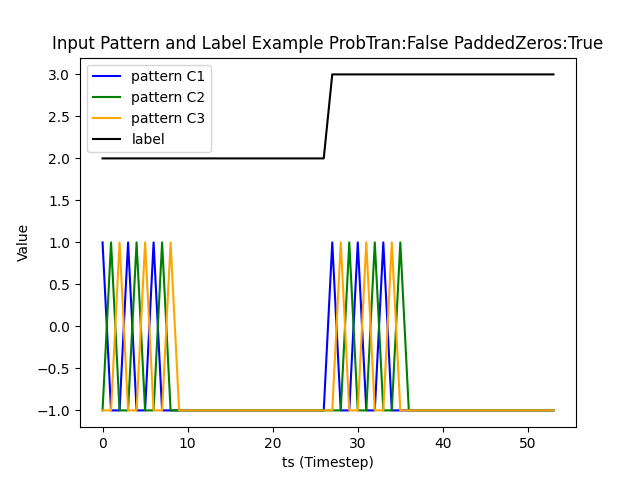
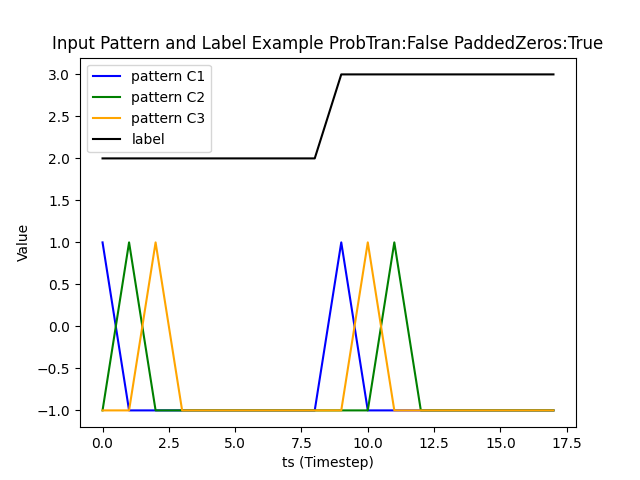
3 layer feedback demo

diff --git a/three-layers-feedback.py b/three-layers-feedback.py
@@ -44,7 +44,7 @@ def preset_timing_plot():
     ax.set_xlabel('Time (s)')
     ax.set_title('Preset Timing Parameters')
 
-    plt.show()
+    plt.savefig('fig/preset_timing_parameters/preset_timing_parmeters_pt_eq_'+str(pt)[0:4]+'.png')
 
 def phase_automata(driving_symbol='0', number_of_symbols=3, id_of_starting_symbol=0, timesteps=9,
                    probability_of_transition=False):
@@ -84,14 +84,18 @@ def phase_automata(driving_symbol='0', number_of_symbols=3, id_of_starting_symbo
 
 reseed = 91332 #91323 #91280 #91274 # 91264 # 91254  # 91273
 good = False
-number_of_samples = 64
-ts = 9  # number of timesteps to hold a driving symbol constant for.
+number_of_samples = 2
+ts = 3  # number of timesteps to hold a driving symbol constant for.
 pb = False
-pt = 3e-2 # seconds to present each step of input
+pt = 3e-3 # seconds to present each step of input
 label_length = ts * 3 # In Timesteps, multiply by dt to get actual length of time
-threeChannelsOF1, end_channel = phase_automata(driving_symbol="1", probability_of_transition=pb, timesteps=ts)
 padded_zeros = np.zeros((3, ts * 2), dtype=float)
 padded_zeros = padded_zeros - 1.0
+
+
+i = 1
+
+threeChannelsOF1, end_channel = phase_automata(driving_symbol="1", probability_of_transition=pb, timesteps=ts)
 threeChannels1 = np.concatenate((threeChannelsOF1, padded_zeros), axis=1)
 threeChannelsOF0, end_channel0 = phase_automata(driving_symbol="0", probability_of_transition=pb, timesteps=ts)
 threeChannels0 = np.concatenate((threeChannelsOF0, padded_zeros), axis=1)
@@ -100,6 +104,7 @@ labels1 = np.ones((label_length, 1), dtype=float)
 bothLabels = np.concatenate((labels0, labels1), axis=0)
 bothPatterns = np.concatenate((threeChannels0, threeChannels1), axis=1)
 
+bitstring = "0111100001010000000111111101010101010011001100011100101010000111100000000000000000000000000000000000000000000000000000000000000000"
 plt.figure()
 plt.title("Input Pattern and Label Example ProbTran:"+str(pb)+" PaddedZeros:True")
 t = np.arange(ts*3*2)
@@ -111,50 +116,35 @@ plt.plot(t,bothPatterns[2],color="orange",label="pattern C3")
 plt.plot(t,bothLabels+2.0,color="black",label="label")
 plt.legend()
 plt.savefig("fig/input_pattern_example_probTran_"+str(pb)+"_padded_zeros_true.png")
-i = 1
-bitstring = "0101100001010000000111111101010101010011001100011100101010000111100000000000000000000000000000000000000000000000000000000000000000"
+
 w = 0
 while i < number_of_samples:
-    threeChannelsOF1, end_channel = phase_automata(driving_symbol=bitstring[w], probability_of_transition=pb, 
+    print(bitstring[w])
+    threeChannelsOF, end_channel = phase_automata(driving_symbol=bitstring[w], probability_of_transition=pb, 
                                                                   timesteps=ts)
-    threeChannels1 = np.concatenate((threeChannelsOF1, padded_zeros), axis=1)
+    threeChannels = np.concatenate((threeChannelsOF, padded_zeros), axis=1)
     if (bitstring[w] == "0"):
-        labels0 = np.zeros((ts * 3, 1), dtype=float)
+        labels0or1 = np.zeros((ts * 3, 1), dtype=float)
     else:
-        labels0 = np.ones((ts * 3, 1), dtype=float)
+        labels0or1 = np.ones((ts * 3, 1), dtype=float)
     w += 1
     w  = w % len(bitstring)
-    threeChannelsOF0, end_channel0 = phase_automata(driving_symbol=bitstring[w], probability_of_transition=pb,
-                                                    timesteps=ts)
-    if (bitstring[w] == "0"):
-        labels1 = np.zeros((ts * 3, 1), dtype=float)
-    else:
-        labels1 = np.ones((ts * 3, 1), dtype=float)
 
-    w += 1
-    w = w % len(bitstring)
-
-    threeChannels0 = np.concatenate((threeChannelsOF0, padded_zeros), axis=1)
-    #labels0 = np.zeros((ts * 3, 1), dtype=float)
-    #labels1 = np.ones((ts * 3, 1), dtype=float)
-    bothLabelsB = np.concatenate((labels0, labels1), axis=0)
-    bothPatternsB = np.concatenate((threeChannels0, threeChannels1), axis=1)
     bothLabelsA = np.copy(bothLabels)
     bothPatternsA = np.copy(bothPatterns)
-    bothLabels = np.concatenate((bothLabelsA, bothLabelsB), axis=0)
-    bothPatterns = np.concatenate((bothPatternsA, bothPatternsB), axis=1)
+    bothLabels = np.concatenate((bothLabelsA, labels0or1), axis=0)
+    bothPatterns = np.concatenate((bothPatternsA, threeChannels), axis=1)
     i += 1
     
 tC = bothPatterns.transpose((1, 0))
 labels = bothLabels
 
 
-#while not good:
-model = nengo.Network(label='Three Layers with feedback', seed=reseed)
-num_neurons_l1 = 4
-num_neurons_l2 = 6
-num_neurons_l3 = 2
-with model:
+while not good:
+    model = nengo.Network(label='Three Layers with feedback', seed=reseed)
+    num_neurons_l1 = 4
+    num_neurons_l2 = 6
+    num_neurons_l3 = 2
     with model:
         layer1 = nengo.Ensemble(
             num_neurons_l1,  # Number of neurons
@@ -181,121 +171,126 @@ with model:
         )
 
 
-with model:
-    input_signal = nengo.Node(PresentInput(tC, presentation_time=pt))
-    input_keys = nengo.Node(PresentInput(labels, presentation_time=pt))
+    with model:
+        input_signal = nengo.Node(PresentInput(tC, presentation_time=pt))
+        input_keys = nengo.Node(PresentInput(labels, presentation_time=pt))
 
-with model:
-    nengo.Connection(input_signal, layer1, synapse=None,label="input signals to layer 1")
-    nengo.Connection(layer1, layer2, synapse=1e-1, label="layer 1 to layer2")
-    nengo.Connection(layer2, layer1, synapse=ts*1e-1, label="layer 2 to layer 1")
-    conn = nengo.Connection(layer2, layer3, synapse=1e-2, label="layer 2 to layer 3")
-    nengo.Connection(layer3, layer2, synapse=ts*1e-1, label="layer3 to layer2")
+    with model:
+        nengo.Connection(input_signal, layer1, synapse=None,label="input signals to layer 1")
+        nengo.Connection(layer1, layer2, synapse=1e-1, label="layer 1 to layer2")
+        nengo.Connection(layer2, layer1, synapse=ts*1e-1, label="layer 2 to layer 1")
+        conn = nengo.Connection(layer2, layer3, synapse=1e-2, label="layer 2 to layer 3")
+        nengo.Connection(layer3, layer2, synapse=ts*1e-1, label="layer3 to layer2")
 
-simT = 10
-with model:
-    input_probe = nengo.Probe(input_signal)  # The original input
-    spikes = nengo.Probe(layer1.neurons)  # Raw spikes from each neuron
-    # Subthreshold soma voltages of the neurons
-    
-    #voltage = nengo.Probe(layer1.neurons, 'voltage')
-    # Spikes filtered by a 10ms post-synaptic filter
-    filteredl1 = nengo.Probe(layer1.neurons, 'voltage', synapse=3e-2)
-    filteredl2 = nengo.Probe(layer2.neurons, 'voltage', synapse=3e-2)
-    filteredl3 = nengo.Probe(layer3.neurons, 'voltage', synapse=3e-2)
-    
-    # Setup probes
-    p_keys = nengo.Probe(input_keys, synapse=None, label="p_keys")
-    p_values = nengo.Probe(input_signal, synapse=None, label="p_values")
-    
-with nengo.Simulator(model) as sim:  # Create a simulator
-    sim.run(simT)  # Run 
+    simT = 1
+    with model:
+        input_probe = nengo.Probe(input_signal)  # The original input
+        spikes = nengo.Probe(layer1.neurons)  # Raw spikes from each neuron
+        # Subthreshold soma voltages of the neurons
+        
+        #voltage = nengo.Probe(layer1.neurons, 'voltage')
+        # Spikes filtered by a 10ms post-synaptic filter
+        filteredl1 = nengo.Probe(layer1.neurons, 'voltage', synapse=3e-2)
+        filteredl2 = nengo.Probe(layer2.neurons, 'voltage', synapse=3e-2)
+        filteredl3 = nengo.Probe(layer3.neurons, 'voltage', synapse=3e-2)
+        
+        # Setup probes
+        p_keys = nengo.Probe(input_keys, synapse=None, label="p_keys")
+        p_values = nengo.Probe(input_signal, synapse=None, label="p_values")
+        
+    with nengo.Simulator(model) as sim:  # Create a simulator
+        sim.run(simT)  # Run 
 
-t = sim.trange()
+    t = sim.trange()
 
-plot_range = -1  # index
+    plot_range = -1  # index
 
-train = t <= simT / 2
-test = ~train
+    train = t <= simT / 2
+    test = ~train
 
 
 
-# plt.figure()
-# plt.title("Value Error During Training")
-# plt.plot(t[train], sim.data[p_error][train])
-# plt.show()
+    # plt.figure()
+    # plt.title("Value Error During Training")
+    # plt.plot(t[train], sim.data[p_error][train])
+    # plt.show()
 
-plt.figure()
-plt.title("Filtered L1 output")
-# print(np.shape(sim.data[p_recall][test][0:,0:1]), np.shape(sim.data[p_values][test][0:,0:1]))
-# plt.plot(t, sim.data[p_recall][0:,0:1])# - sim.data[p_values][0:,0:1])
+    plt.figure()
+    plt.title("Filtered L1 output")
+    # print(np.shape(sim.data[p_recall][test][0:,0:1]), np.shape(sim.data[p_values][test][0:,0:1]))
+    # plt.plot(t, sim.data[p_recall][0:,0:1])# - sim.data[p_values][0:,0:1])
 
-plt.plot(t, sim.data[input_probe] + 2)
-plt.plot(t, sim.data[p_keys] + 0, color="black")
-print(np.shape(sim.data[filteredl1]))
-plt.plot(t, sim.data[filteredl1][0:, 0:1] + 3, color="b")
-plt.plot(t, sim.data[filteredl1][0:, 1:2] + 4, color="y")
-plt.plot(t, sim.data[filteredl1][0:, 2:3] + 5, color="k")
-plt.plot(t, sim.data[filteredl1][0:, 3:4] + 6, color="m")
-plt.savefig('fig/3layersfeedbck_neuronsl1_4.png')
-#    plt.plot(t, sim.data[filtered][0:, 4:5] + 7, color="r")
-#    plt.plot(t, sim.data[filtered][0:, 5:6] + 8, color="g")
-#    plt.plot(t, sim.data[filtered][0:, 6:7] + 9, color="#aabbcc")
+    plt.plot(t, sim.data[input_probe] + 2)
+    plt.plot(t, sim.data[p_keys] + 0, color="black")
+    print(np.shape(sim.data[filteredl1]))
+    plt.plot(t, sim.data[filteredl1][0:, 0:1] + 3, color="b")
+    plt.plot(t, sim.data[filteredl1][0:, 1:2] + 4, color="y")
+    plt.plot(t, sim.data[filteredl1][0:, 2:3] + 5, color="k")
+    plt.plot(t, sim.data[filteredl1][0:, 3:4] + 6, color="m")
+    plt.savefig('fig/3layersfeedbck_neuronsl1_4.png')
+    #    plt.plot(t, sim.data[filtered][0:, 4:5] + 7, color="r")
+    #    plt.plot(t, sim.data[filtered][0:, 5:6] + 8, color="g")
+    #    plt.plot(t, sim.data[filtered][0:, 6:7] + 9, color="#aabbcc")
 
-plt.figure()
-plt.title("Filtered L2 output")
-# print(np.shape(sim.data[p_recall][test][0:,0:1]), np.shape(sim.data[p_values][test][0:,0:1]))
-# plt.plot(t, sim.data[p_recall][0:,0:1])# - sim.data[p_values][0:,0:1])
-plt.plot(t, sim.data[input_probe] + 2)
-plt.plot(t, sim.data[p_keys] + 0, color="black")
-print(np.shape(sim.data[filteredl2]))
-plt.plot(t, sim.data[filteredl2][0:, 0:1] + 3, color="b")
-plt.plot(t, sim.data[filteredl2][0:, 1:2] + 4, color="y")
-plt.plot(t, sim.data[filteredl2][0:, 2:3] + 5, color="k")
-plt.plot(t, sim.data[filteredl2][0:, 3:4] + 6, color="m")
-plt.plot(t, sim.data[filteredl2][0:, 4:5] + 7, color="r")
-plt.plot(t, sim.data[filteredl2][0:, 5:6] + 8, color="g")
-plt.savefig('fig/3layersfeedbck_neuronsl2_6.png')
+    plt.figure()
+    plt.title("Filtered L2 output")
+    # print(np.shape(sim.data[p_recall][test][0:,0:1]), np.shape(sim.data[p_values][test][0:,0:1]))
+    # plt.plot(t, sim.data[p_recall][0:,0:1])# - sim.data[p_values][0:,0:1])
+    plt.plot(t, sim.data[input_probe] + 2)
+    plt.plot(t, sim.data[p_keys] + 0, color="black")
+    print(np.shape(sim.data[filteredl2]))
+    plt.plot(t, sim.data[filteredl2][0:, 0:1] + 3, color="b")
+    plt.plot(t, sim.data[filteredl2][0:, 1:2] + 4, color="y")
+    plt.plot(t, sim.data[filteredl2][0:, 2:3] + 5, color="k")
+    plt.plot(t, sim.data[filteredl2][0:, 3:4] + 6, color="m")
+    plt.plot(t, sim.data[filteredl2][0:, 4:5] + 7, color="r")
+    plt.plot(t, sim.data[filteredl2][0:, 5:6] + 8, color="g")
+    plt.savefig('fig/3layersfeedbck_neuronsl2_6.png')
 
-plt.figure()
-plt.title("Filtered L3 output")
+    plt.figure()
+    plt.title("Filtered L3 output")
 
-plt.plot(t[test], sim.data[p_keys][test] + 0, color="black")
-plt.plot(t[test], sim.data[input_probe][test] + 2)
-print(np.shape(sim.data[filteredl2]))
-plt.plot(t[test], sim.data[filteredl2][test][0:, 0:1] + 3, color="b")
-plt.plot(t[test], sim.data[filteredl2][test][0:, 1:2] + 4, color="y")
-plt.savefig('fig/3layersfeedbck_neuronsl3_2_'+str(reseed)+'.png')
+    plt.plot(t[test], sim.data[p_keys][test] + 0, color="black")
+    plt.plot(t[test], sim.data[input_probe][test] + 2)
+    print(np.shape(sim.data[filteredl2]))
+    plt.plot(t[test], sim.data[filteredl2][test][0:, 0:1] + 3, color="b")
+    plt.plot(t[test], sim.data[filteredl2][test][0:, 1:2] + 4, color="y")
+    plt.savefig('fig/3layersfeedbck_neuronsl3_2_'+str(reseed)+'.png')
 
-plt.clf()
+    plt.clf()
 
-plt.figure()
-time_input_signal = t <= pt*ts
-plt.title("single timesteps of input")
-plt.plot(t[time_input_signal],sim.data[input_probe][time_input_signal][0: , 0:1], color="blue")
-plt.plot(t[time_input_signal],sim.data[input_probe][time_input_signal][0: , 1:2]+2.1, color="green")
-plt.plot(t[time_input_signal],sim.data[input_probe][time_input_signal][0: , 2:3] + 4.2 , color="orange")
-plt.savefig('fig/inputTiming.png')
-i = 0
+    plt.figure()
+    time_input_signal = t <= pt*ts
+    plt.title("single timesteps of input")
+    plt.plot(t[time_input_signal],sim.data[input_probe][time_input_signal][0: , 0:1], color="blue")
+    plt.plot(t[time_input_signal],sim.data[input_probe][time_input_signal][0: , 1:2]+2.1, color="green")
+    plt.plot(t[time_input_signal],sim.data[input_probe][time_input_signal][0: , 2:3] + 4.2 , color="orange")
+    plt.savefig('fig/inputTiming.png')
+    i = 0
 
-best_neuron_value = np.sum((sim.data[filteredl3][0:, 0:0 + 1]+1.0) - (sim.data[p_keys]*2.0))
-print(best_neuron_value)
-best_neuron_index = 0
-while i < num_neurons_l3:
-    sum = np.sum((sim.data[filteredl3][0:, i:i + 1]+1.0) - (sim.data[p_keys]*2.0))
-    # print(i, sum)
+    best_neuron_value = np.sum((sim.data[filteredl3][0:, 0:0 + 1]+1.0) - (sim.data[p_keys]*2.0))
+    print(best_neuron_value)
+    best_neuron_index = 0
+    while i < num_neurons_l3:
+        print(i, "sim.data[filteredl3]+1", sim.data[filteredl3][0:, i:i + 1]+1.0 , "sim.data[p_keys]*2 ", (sim.data[p_keys]*2.0) )
+        for e in sim.data[p_keys]:
+            for el in e:
+                print (el)
+        sum = np.sum((sim.data[filteredl3][0:, i:i + 1]+1.0) - (sim.data[p_keys]*2.0))
+        # print(i, sum)
 
-    if (sum < best_neuron_value):
-        best_neuron_index = i
-        best_neuron_value = sum
-    print(best_neuron_value, best_neuron_index, reseed)
-    i += 1
-if (np.abs(best_neuron_value) < 20000):
-    good = True
-else:
-    reseed += 1
+        if (sum < best_neuron_value):
+            best_neuron_index = i
+            best_neuron_value = sum
+        print(best_neuron_value, best_neuron_index, reseed)
+        i += 1
+    if (np.abs(best_neuron_value) < 20):
+        good = True
+    else:
+        pt += 1e-3
+    #    reseed += 1
 
-#    preset_timing_plot()    
+    #preset_timing_plot()    
     good = True
 
 plt.figure()
@@ -305,13 +300,13 @@ plt.title("Filtered output")
 plt.plot(t, sim.data[p_keys] + 0, color="g")
 plt.plot(t, sim.data[input_probe] + 2)
 plt.plot(t, sim.data[filteredl3][0:, best_neuron_index:best_neuron_index + 1] + 3, color="black")
-plt.savefig('fig/3layersfeedbck_best_neuron_index_l3.png')
+#plt.savefig('fig/3layersfeedbck_best_neuron_index_l3.png')
 
 
 
 with model:
-    print(model)
-    print(model.all_connections)
+    #print(model)
+    #print(model.all_connections)
     #nengo.Connection(input_signal, layer1, synapse=None)
     #conn = nengo.Connection(layer1, layer2, synapse=1e-1)
     #nengo.Connection(layer2, layer1, synapse=ts*1e-1)
@@ -323,7 +318,8 @@ with model:
     nengo.Connection(layer3,error,transform=[[-1,-1,-1]], synapse=ts*1e-3, label="layer3 to error network")
     conn.learning_rule_type = nengo.PES(pre_synapse=9e-1)
     nengo.Connection(error,conn.learning_rule,transform=[[1],[1],[1]], label="error network connect to learning rule")
-    print(model.all_connections)
+    #print(model.all_connections)
+
 with nengo.Simulator(model) as sim:  # Create a simulator
     sim.run(simT)  # Run 
 
@@ -336,4 +332,4 @@ plt.plot(t, sim.data[p_keys] + 0, color="g")
 plt.plot(t, sim.data[input_probe] + 2)
 plt.plot(t, sim.data[filteredl3][0:, best_neuron_index:best_neuron_index + 1] + 3, color="black")
 
-plt.savefig('fig/3layersfeedbck_best_neuron_index_l3_learned.png')
+#plt.savefig('fig/3layersfeedbck_best_neuron_index_l3_learned.png')
